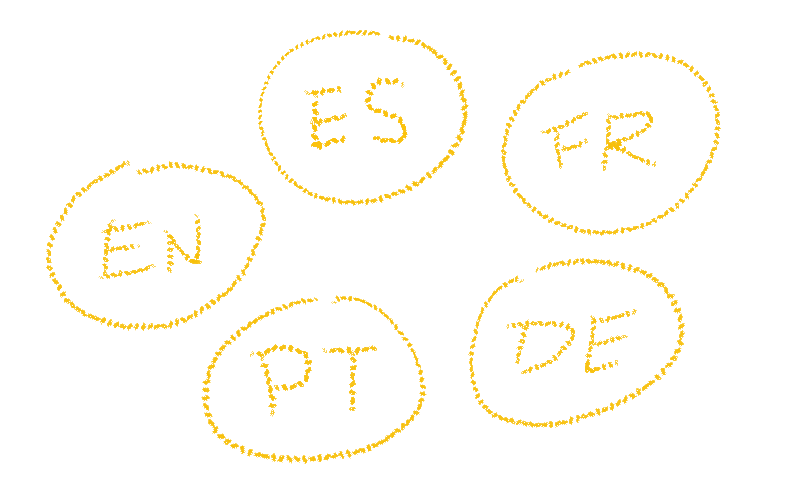
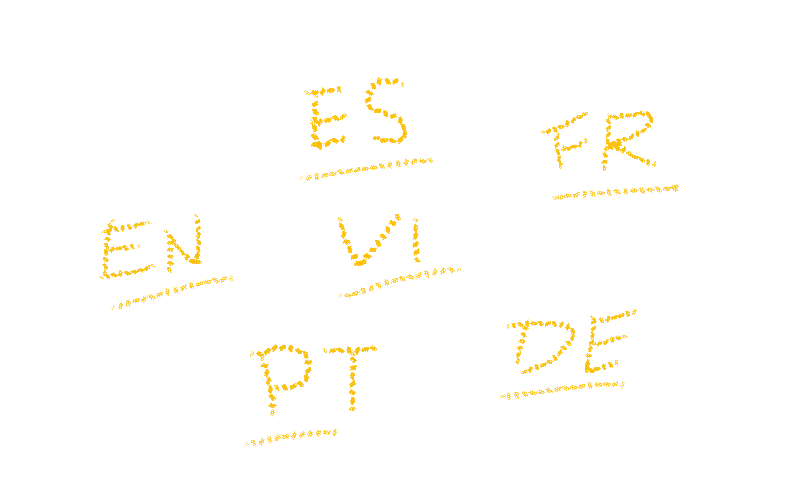
update index VI locale

diff --git a/homepage/theme/templates/index.html b/homepage/theme/templates/index.html
@@ -523,7 +523,7 @@
               </em>
             </p>
             <p class="ma0 mb2">
-              <i>Offen is available in</i> English, German, French, Spanish <i>and</i> Portuguese.
+              <i>Offen is available in</i> English, French, German, Portuguese, Spanish <i>and</i> Vietnamese.
             </p>
             <p class="ma0 mb2">
               <i>Our</i> consent banner and the Auditorium <i>for operators as well as users can be displayed</i> in the respective locale.
